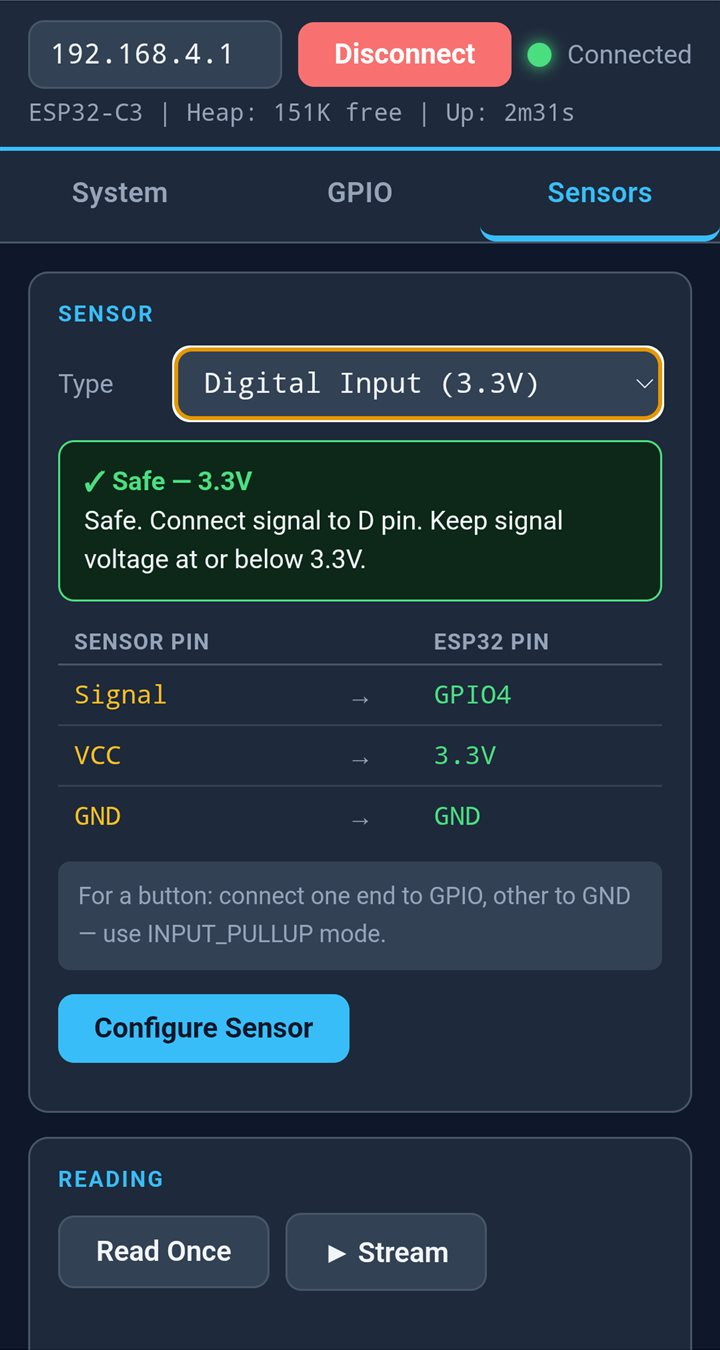
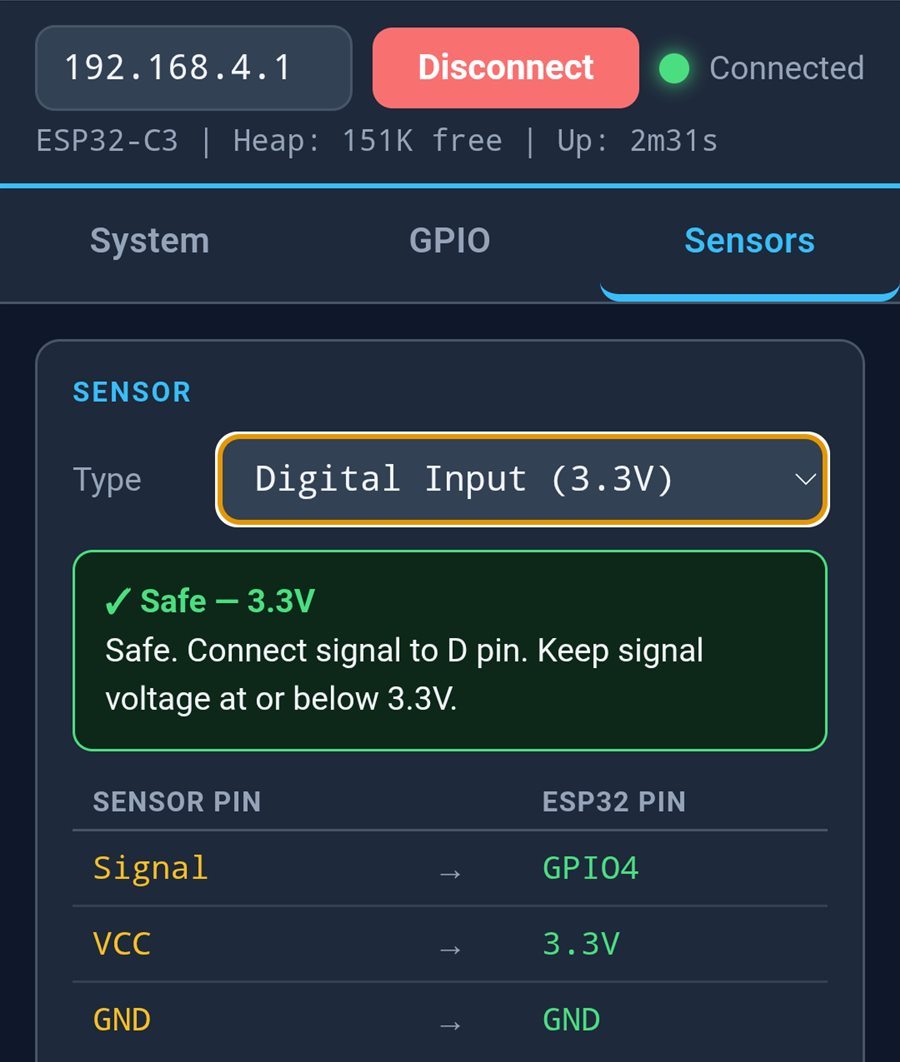
Parts page: two wider, shorter app screenshots instead of three tall ones

diff --git a/docs/index.html b/docs/index.html
@@ -62,11 +62,11 @@ a { color: var(--accent); }
 
 /* ── Gallery ── */
 .gallery { display: grid; grid-template-columns: 1fr 1fr; gap: 16px; }
-.screens { display: grid; grid-template-columns: repeat(3, 1fr); gap: 24px; margin-top: 28px; max-width: 900px; margin-left: auto; margin-right: auto; }
+.screens { display: grid; grid-template-columns: 1fr 1fr; gap: 16px; margin-top: 16px; align-items: start; }
 .screens figure { text-align: center; }
 .screens img {
-    width: 100%; aspect-ratio: 720 / 1350; object-fit: cover; object-position: top; display: block;
-    border: 6px solid #0b1220; border-radius: 22px; outline: 1px solid var(--line);
+    width: 100%; height: auto; display: block;
+    border: 1px solid var(--line); border-radius: 12px;
     box-shadow: 0 14px 34px rgba(0,0,0,.45);
 }
 .screens figcaption { color: var(--muted); font-size: .9rem; margin-top: 10px; }
@@ -115,7 +115,7 @@ footer .disclosure { margin-top: 10px; font-size: .82rem; }
     .hero { padding: 40px 0 32px; }
     .hero-grid { grid-template-columns: 1fr; }
     .gallery { grid-template-columns: 1fr; }
-    .screens { grid-template-columns: 1fr; max-width: 300px; }
+    .screens { grid-template-columns: 1fr; }
     .card.feature { flex-direction: column; }
     .card.feature .pic { flex: none; }
     .support { flex-direction: column; align-items: flex-start; }
@@ -170,15 +170,11 @@ footer .disclosure { margin-top: 10px; font-size: .82rem; }
         </div>
         <div class="screens">
             <figure>
-                <img src="img/app-list.jpg" alt="Sensor selection list in the ESP32 Lab web app on a phone" loading="lazy" width="720" height="1250">
-                <figcaption>Pick a sensor…</figcaption>
+                <img src="img/app-sensors.jpg" alt="Sensors tab showing the sensor type, a voltage safety check and the wiring table" loading="lazy" width="900" height="1062">
+                <figcaption>Pick a sensor and the lab tells you exactly how to wire it.</figcaption>
             </figure>
             <figure>
-                <img src="img/app-sensors.jpg" alt="Sensors tab showing a safety check, wiring table and Read Once / Stream buttons" loading="lazy" width="720" height="1350">
-                <figcaption>…follow the wiring guide, then read or stream it.</figcaption>
-            </figure>
-            <figure>
-                <img src="img/app-system.jpg" alt="System tab showing chip model, memory use and network details" loading="lazy" width="720" height="1350">
+                <img src="img/app-system.jpg" alt="System tab showing chip model, revision, clock speed and memory use" loading="lazy" width="900" height="1167">
                 <figcaption>See what's going on inside the chip.</figcaption>
             </figure>
         </div>
